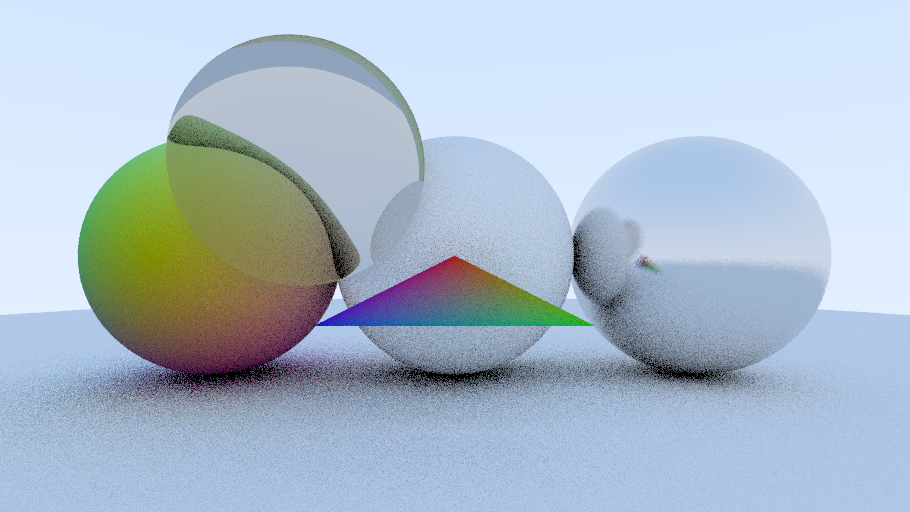
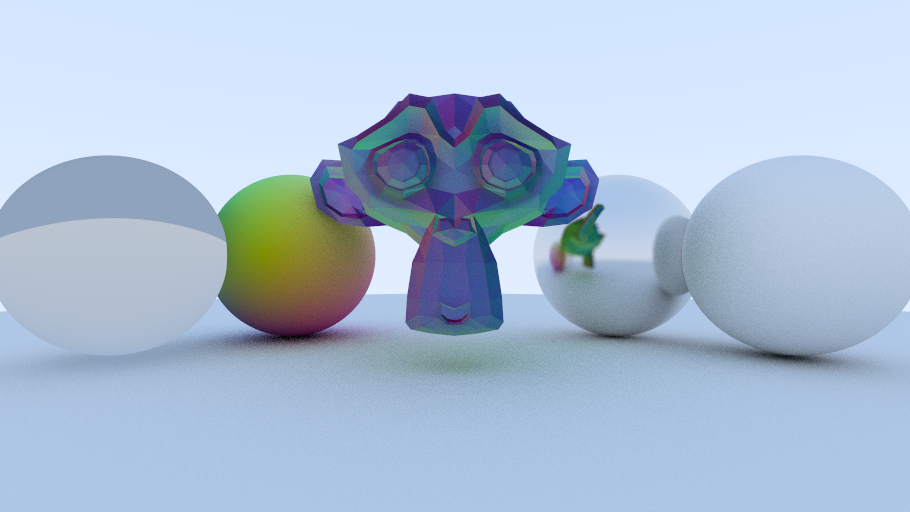
Fixed index buffer decoding

diff --git a/src/engine/scene.rs b/src/engine/scene.rs
@@ -41,12 +41,55 @@ impl Scene {
         }
     }
 
-    fn decode_vec3(buffer : &Vec<u8>, offset : usize) -> Vec3A {
-        Vec3A::new(
-            f32::from_le_bytes(buffer[offset..offset + 4].try_into().expect("Invalid [1] x coord")),
-            f32::from_le_bytes(buffer[offset + 4..offset + 4 * 2].try_into().expect("Invalid [1] y coord")),
-            f32::from_le_bytes(buffer[offset + 4 * 2..offset + 4 * 3].try_into().expect("Invalid [1] z coord"))
-        )
+    fn decode_triangle_positions_indexed(
+        vertices_buffer : &Vec<u8>, vertices_offset: usize, vertices_stride: usize, vertices_raw_size: usize,
+        indices_buffer : &Vec<u8>, indices_offset : usize, indices_stride: usize,  indices_raw_size: usize
+    ) -> (Vertex, Vertex, Vertex) {
+        let index1 = Self::decode_int(indices_buffer, indices_offset, indices_raw_size) as usize;
+        let index2 = Self::decode_int(indices_buffer, indices_offset + indices_stride, indices_raw_size) as usize;
+        let index3 = Self::decode_int(indices_buffer, indices_offset + indices_stride * 2, indices_raw_size) as usize;
+
+        let pos1 = Self::decode_vec3(vertices_buffer, vertices_offset + index1 * vertices_stride, vertices_raw_size);
+        let pos2 = Self::decode_vec3(vertices_buffer, vertices_offset + index2 * vertices_stride, vertices_raw_size);
+        let pos3 = Self::decode_vec3(vertices_buffer, vertices_offset + index3 * vertices_stride, vertices_raw_size);
+
+        let vertex1 = Vertex::new(pos1, Vec2::ZERO);
+        let vertex2 = Vertex::new(pos2, Vec2::ZERO);
+        let vertex3 = Vertex::new(pos3, Vec2::ZERO);
+
+        (vertex1, vertex2, vertex3)
+    }
+
+    fn decode_triangle_positions(buffer : &Vec<u8>, offset : usize, stride : usize, 
+        raw_size : usize) -> (Vertex, Vertex, Vertex) {
+        let pos1 = Self::decode_vec3(buffer, offset, raw_size);
+        let pos2 = Self::decode_vec3(buffer, offset + stride, raw_size);
+        let pos3 = Self::decode_vec3(buffer, offset + stride * 2, raw_size);
+
+        let vertex1 = Vertex::new(pos1, Vec2::ZERO);
+        let vertex2 = Vertex::new(pos2, Vec2::ZERO);
+        let vertex3 = Vertex::new(pos3, Vec2::ZERO);
+
+        (vertex1, vertex2, vertex3)
+    }
+
+    fn decode_vec3(buffer : &Vec<u8>, offset : usize, raw_size : usize) -> Vec3A {
+        return Vec3A::new(
+            f32::from_le_bytes(buffer[offset..offset + raw_size].try_into().expect("Invalid x coord")),
+            f32::from_le_bytes(buffer[offset + raw_size..offset + raw_size * 2].try_into().expect("Invalid y coord")),
+            f32::from_le_bytes(buffer[offset + raw_size * 2..offset + raw_size * 3].try_into().expect("Invalid z coord"))
+        );
+    }
+
+    fn decode_int(buffer : &Vec<u8>, offset : usize, raw_size : usize) -> u32 {
+        if raw_size == 1 {
+            return u8::from_le_bytes(buffer[offset..offset + raw_size].try_into().expect("Invalid index")) as u32;
+        } else if raw_size == 2 {
+            return u16::from_le_bytes(buffer[offset..offset + raw_size].try_into().expect("Invalid index")) as u32;
+        } else if raw_size == 4 {
+            return u32::from_le_bytes(buffer[offset..offset + raw_size].try_into().expect("Invalid index"));
+        }
+        return 0;
     }
 
     fn load_gltf_node(&mut self, context : &GLTFContext, node: &gltf::Node, matrix: &Mat4) {
@@ -64,36 +107,107 @@ impl Scene {
 
             for primitive in gltf_mesh.primitives() {
                 for attribute in primitive.attributes() {
+                    let sparse_option = attribute.1.sparse();
+                    let buffer_view_option = attribute.1.view();
                     match attribute.0 {
                         gltf::Semantic::Positions => {
                             let raw_type = attribute.1.data_type();
                             let data_type = attribute.1.dimensions();
-                            let buffer_view_option = attribute.1.view();
-                            if buffer_view_option.is_some() {
-                                let buffer_view = buffer_view_option.unwrap();
-                                let buffer = &context.decoded_buffers[buffer_view.buffer().index()];
-                                
-                                let size = data_type.multiplicity() * raw_type.size();
 
-                                let stride = size; 
+                            if sparse_option.is_some() {
+                                let sparse = sparse_option.unwrap();
 
-                                let mut buffer_pos = 0;
-                                while buffer_pos < buffer_view.length() {
-                                    let pos_raw_data_pos = buffer_view.offset() + buffer_pos;
-
-                                    let pos1 = Self::decode_vec3(buffer, pos_raw_data_pos);
-                                    let pos2 = Self::decode_vec3(buffer, pos_raw_data_pos + stride);
-                                    let pos3 = Self::decode_vec3(buffer, pos_raw_data_pos + stride * 2);
-
-                                    let vertex1 = Vertex::new(pos1, Vec2::ZERO);
-                                    let vertex2 = Vertex::new(pos2, Vec2::ZERO);
-                                    let vertex3 = Vertex::new(pos3, Vec2::ZERO);
-
-                                    mesh.add_geometry(Arc::new(Triangle::new(vertex1, vertex2, vertex3)));
-
-                                    buffer_pos += stride * 3;
+                                let indices_buffer_view = sparse.indices().view();
+                                let indices_buffer = &context.decoded_buffers[indices_buffer_view.buffer().index()];
+                                let indices_size = sparse.indices().index_type().size();
+                                let mut indices_stride = indices_size; 
+                                if indices_buffer_view.stride().is_some() {
+                                    indices_stride = indices_buffer_view.stride().unwrap();
                                 }
-                            }
+
+                                let vertices_buffer_view = sparse.values().view();
+                                let vertices_buffer = &context.decoded_buffers[vertices_buffer_view.buffer().index()];
+                                let vertices_size = data_type.multiplicity() * raw_type.size();
+                                let mut vertices_stride = vertices_size; 
+                                if vertices_buffer_view.stride().is_some() {
+                                    vertices_stride = vertices_buffer_view.stride().unwrap();
+                                }
+
+                                let mut indices_buffer_pos = 0;
+                                while indices_buffer_pos < indices_buffer_view.length() {
+                                    let pos_raw_indices_data_pos = indices_buffer_view.offset() + indices_buffer_pos;
+
+                                    let (v1, v2, v3) = Self::decode_triangle_positions_indexed(
+                                        vertices_buffer, vertices_buffer_view.offset(), vertices_stride, raw_type.size(),
+                                        indices_buffer, pos_raw_indices_data_pos, indices_stride, indices_size
+                                    );
+
+                                    mesh.add_geometry(Arc::new(Triangle::new(v1, v2, v3)));
+
+                                    indices_buffer_pos += indices_stride * 3;
+                                }
+                            } else {
+                                let primitive_indices_option = primitive.indices();
+                                if primitive_indices_option.is_some() {
+                                    let indices = primitive_indices_option.unwrap();
+                                    let indices_buffer_view = indices.view().expect("Error in gltf file, indices buffer view is empty, when
+                                        indices are not");
+                                    let indices_buffer = &context.decoded_buffers[indices_buffer_view.buffer().index()];
+                
+                                    let indices_raw_type = indices.data_type();
+                                    let indices_data_type = indices.dimensions();
+                
+                                    let indices_size = indices_data_type.multiplicity() * indices_raw_type.size();
+                                    let mut indices_stride = indices_size; 
+                                    if indices_buffer_view.stride().is_some() {
+                                        indices_stride = indices_buffer_view.stride().unwrap();
+                                    }
+
+                                    let vertices_buffer_view = buffer_view_option.expect("Error in gltf file, buffer view is empty, when
+                                        indices are not");
+                                    let vertices_buffer = &context.decoded_buffers[vertices_buffer_view.buffer().index()];
+                                    let vertices_size = data_type.multiplicity() * raw_type.size();
+                                    let mut vertices_stride = vertices_size; 
+                                    if vertices_buffer_view.stride().is_some() {
+                                        vertices_stride = vertices_buffer_view.stride().unwrap();
+                                    }
+
+                                    let mut indices_buffer_pos = 0;
+                                    while indices_buffer_pos < indices_buffer_view.length() {
+                                        let pos_raw_indices_data_pos = indices_buffer_view.offset() + indices_buffer_pos;
+
+                                        let (v1, v2, v3) = Self::decode_triangle_positions_indexed(
+                                            vertices_buffer, vertices_buffer_view.offset(), vertices_stride, raw_type.size(),
+                                            indices_buffer, pos_raw_indices_data_pos, indices_stride, indices_raw_type.size()
+                                        );
+
+                                        mesh.add_geometry(Arc::new(Triangle::new(v1, v2, v3)));
+
+                                        indices_buffer_pos += indices_stride * 3;
+                                    }
+                                }
+                                else if buffer_view_option.is_some() {
+                                    let buffer_view = buffer_view_option.unwrap();
+                                    let buffer = &context.decoded_buffers[buffer_view.buffer().index()];
+                                    let size = data_type.multiplicity() * raw_type.size();
+                                    let mut stride = size; 
+                                    if buffer_view.stride().is_some() {
+                                        stride = buffer_view.stride().unwrap();
+                                    }
+    
+                                    let mut buffer_pos = 0;
+                                    while buffer_pos < buffer_view.length() {
+                                        let pos_raw_data_pos = buffer_view.offset() + buffer_pos;
+                                        let (v1, v2, v3) = Self::decode_triangle_positions(
+                                            buffer, pos_raw_data_pos, stride, raw_type.size()
+                                        );
+                                        
+                                        mesh.add_geometry(Arc::new(Triangle::new(v1, v2, v3)));
+    
+                                        buffer_pos += stride * 3;
+                                    }
+                                }
+                            }                            
                         },
                         _ => println!("Unhandled semantic")
                     }
@@ -153,25 +267,21 @@ impl Scene {
         );
 
         let mut mesh : Mesh = Mesh::new(diffuse_material.clone());
-        mesh.add_geometry(Arc::new(Sphere{radius : 0.5, position : Vec3A::new(0.0, 0.0, 1.2)}));
+        mesh.add_geometry(Arc::new(Sphere{radius : 0.5, position : Vec3A::new(1.7, 0.0, 0.6)}));
         mesh.add_geometry(Arc::new(Sphere{radius : 100.0, position : Vec3A::new(0.0, -100.5, 1.0)}));
-        //self.meshes.push(mesh);
+        self.meshes.push(mesh);
         
         let mut mesh : Mesh = Mesh::new(metal_material.clone());
         mesh.add_geometry(Arc::new(Sphere{radius : 0.5, position : Vec3A::new(1.0, 0.0, 1.2)}));
-        //self.meshes.push(mesh);
+        self.meshes.push(mesh);
 
         let mut mesh : Mesh = Mesh::new(normal_material.clone());
         mesh.add_geometry(Arc::new(Sphere{radius : 0.5, position : Vec3A::new(-1.0, 0.0, 1.2)}));
-        //self.meshes.push(mesh);
+        self.meshes.push(mesh);
 
         let mut mesh : Mesh = Mesh::new(refraction_material.clone());
-        mesh.add_geometry(Arc::new(Sphere{radius : 0.4, position : Vec3A::new(-0.5, 0.3, 0.7)}));
-        //self.meshes.push(mesh);
-
-        let mut mesh : Mesh = Mesh::new(uv_material.clone());
-        mesh.add_geometry(Arc::new(Triangle::DEFAULT));
-        //self.meshes.push(mesh);
+        mesh.add_geometry(Arc::new(Sphere{radius : 0.5, position : Vec3A::new(-1.7, 0.0, 0.6)}));
+        self.meshes.push(mesh);
 
         // gltf
         self.load_gltf("example1.gltf");

diff --git a/src/main.rs b/src/main.rs
@@ -13,10 +13,10 @@ fn main() {
     let args: Vec<String> = env::args().collect();
 
     const ASPECT_RATIO: f32 = 16.0 / 9.0;
-    const IMAGE_HEIGHT: u32 = 256;
+    const IMAGE_HEIGHT: u32 = 512;
     const IMAGE_WIDTH: u32 = (IMAGE_HEIGHT as f32 * ASPECT_RATIO) as u32;
 
-    let origin = Vec3A::new(0.0, 0.0, -3.0);
+    let origin = Vec3A::new(0.0, 0.0, -2.0);
     let direction = Vec3A::new(0.0, 0.0, 1.0);
 
     unsafe {
@@ -41,8 +41,8 @@ fn main() {
     }
 
     unsafe {
-        render_context = RenderContext{render_target : render_target, scene : scene, spp : 5,
-            max_depth : 3};
+        render_context = RenderContext{render_target : render_target, scene : scene, spp : 100,
+            max_depth : 50};
     }
 
     let renderer = Renderer{};
